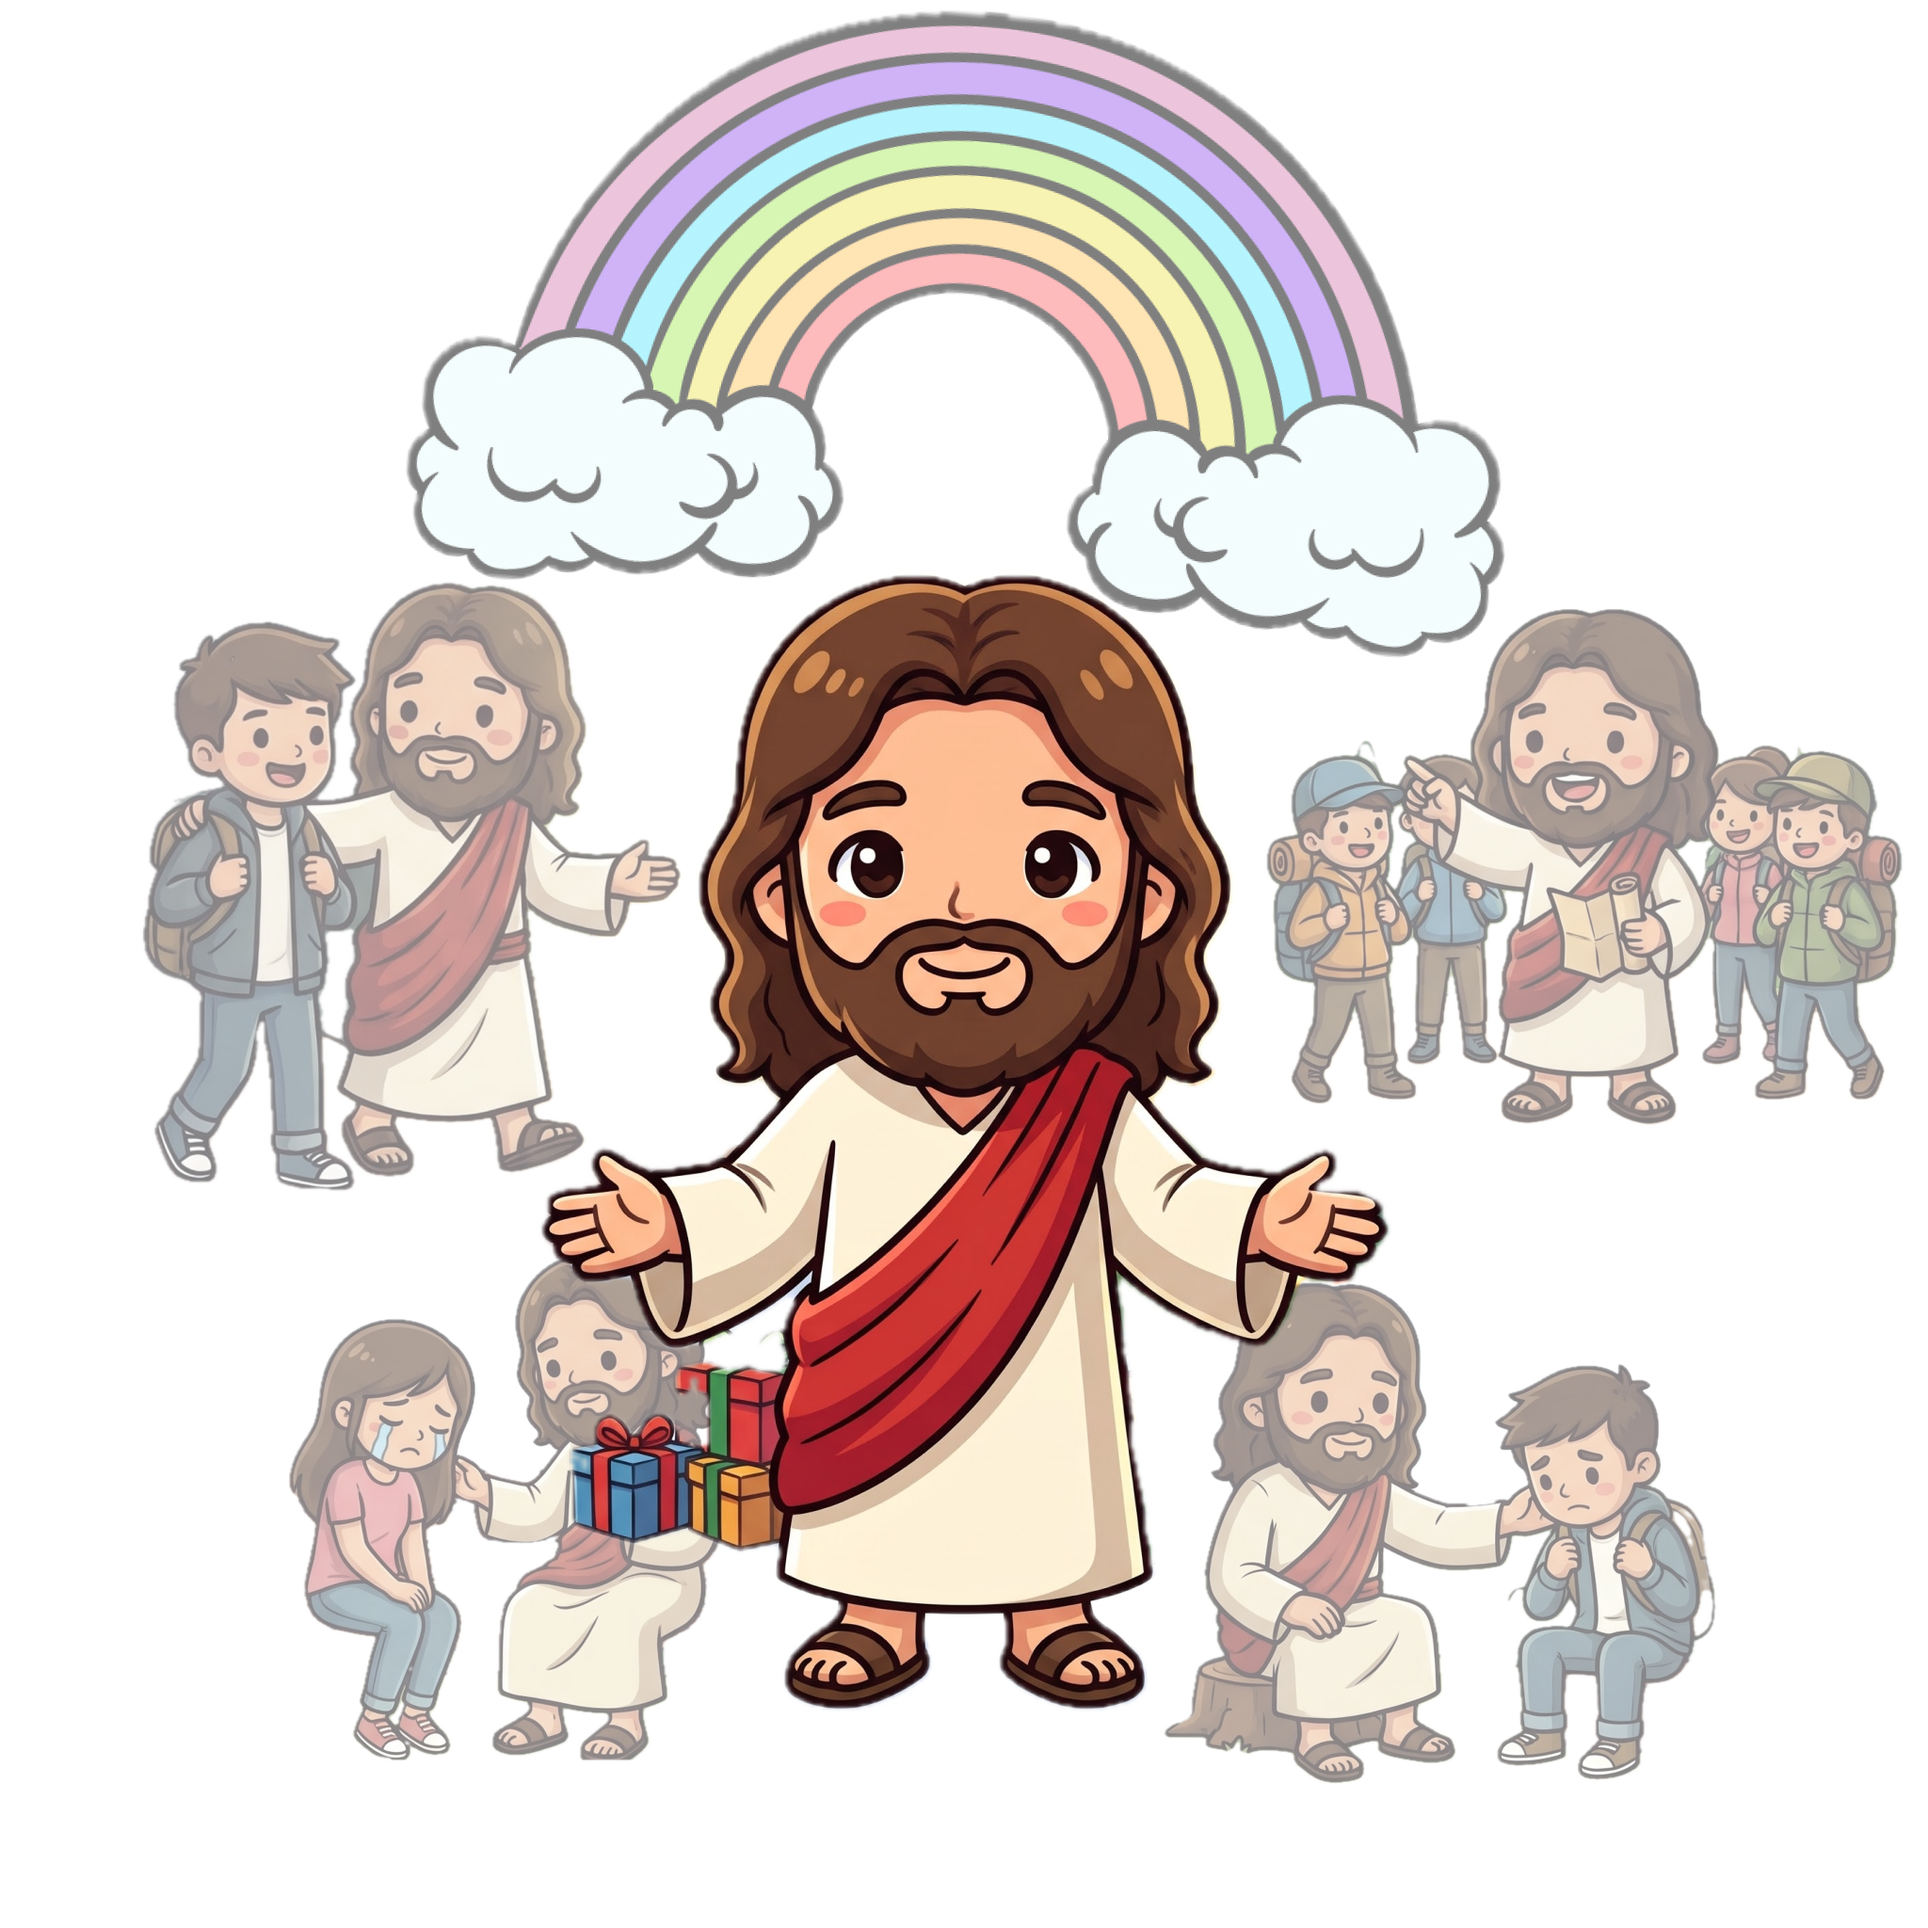
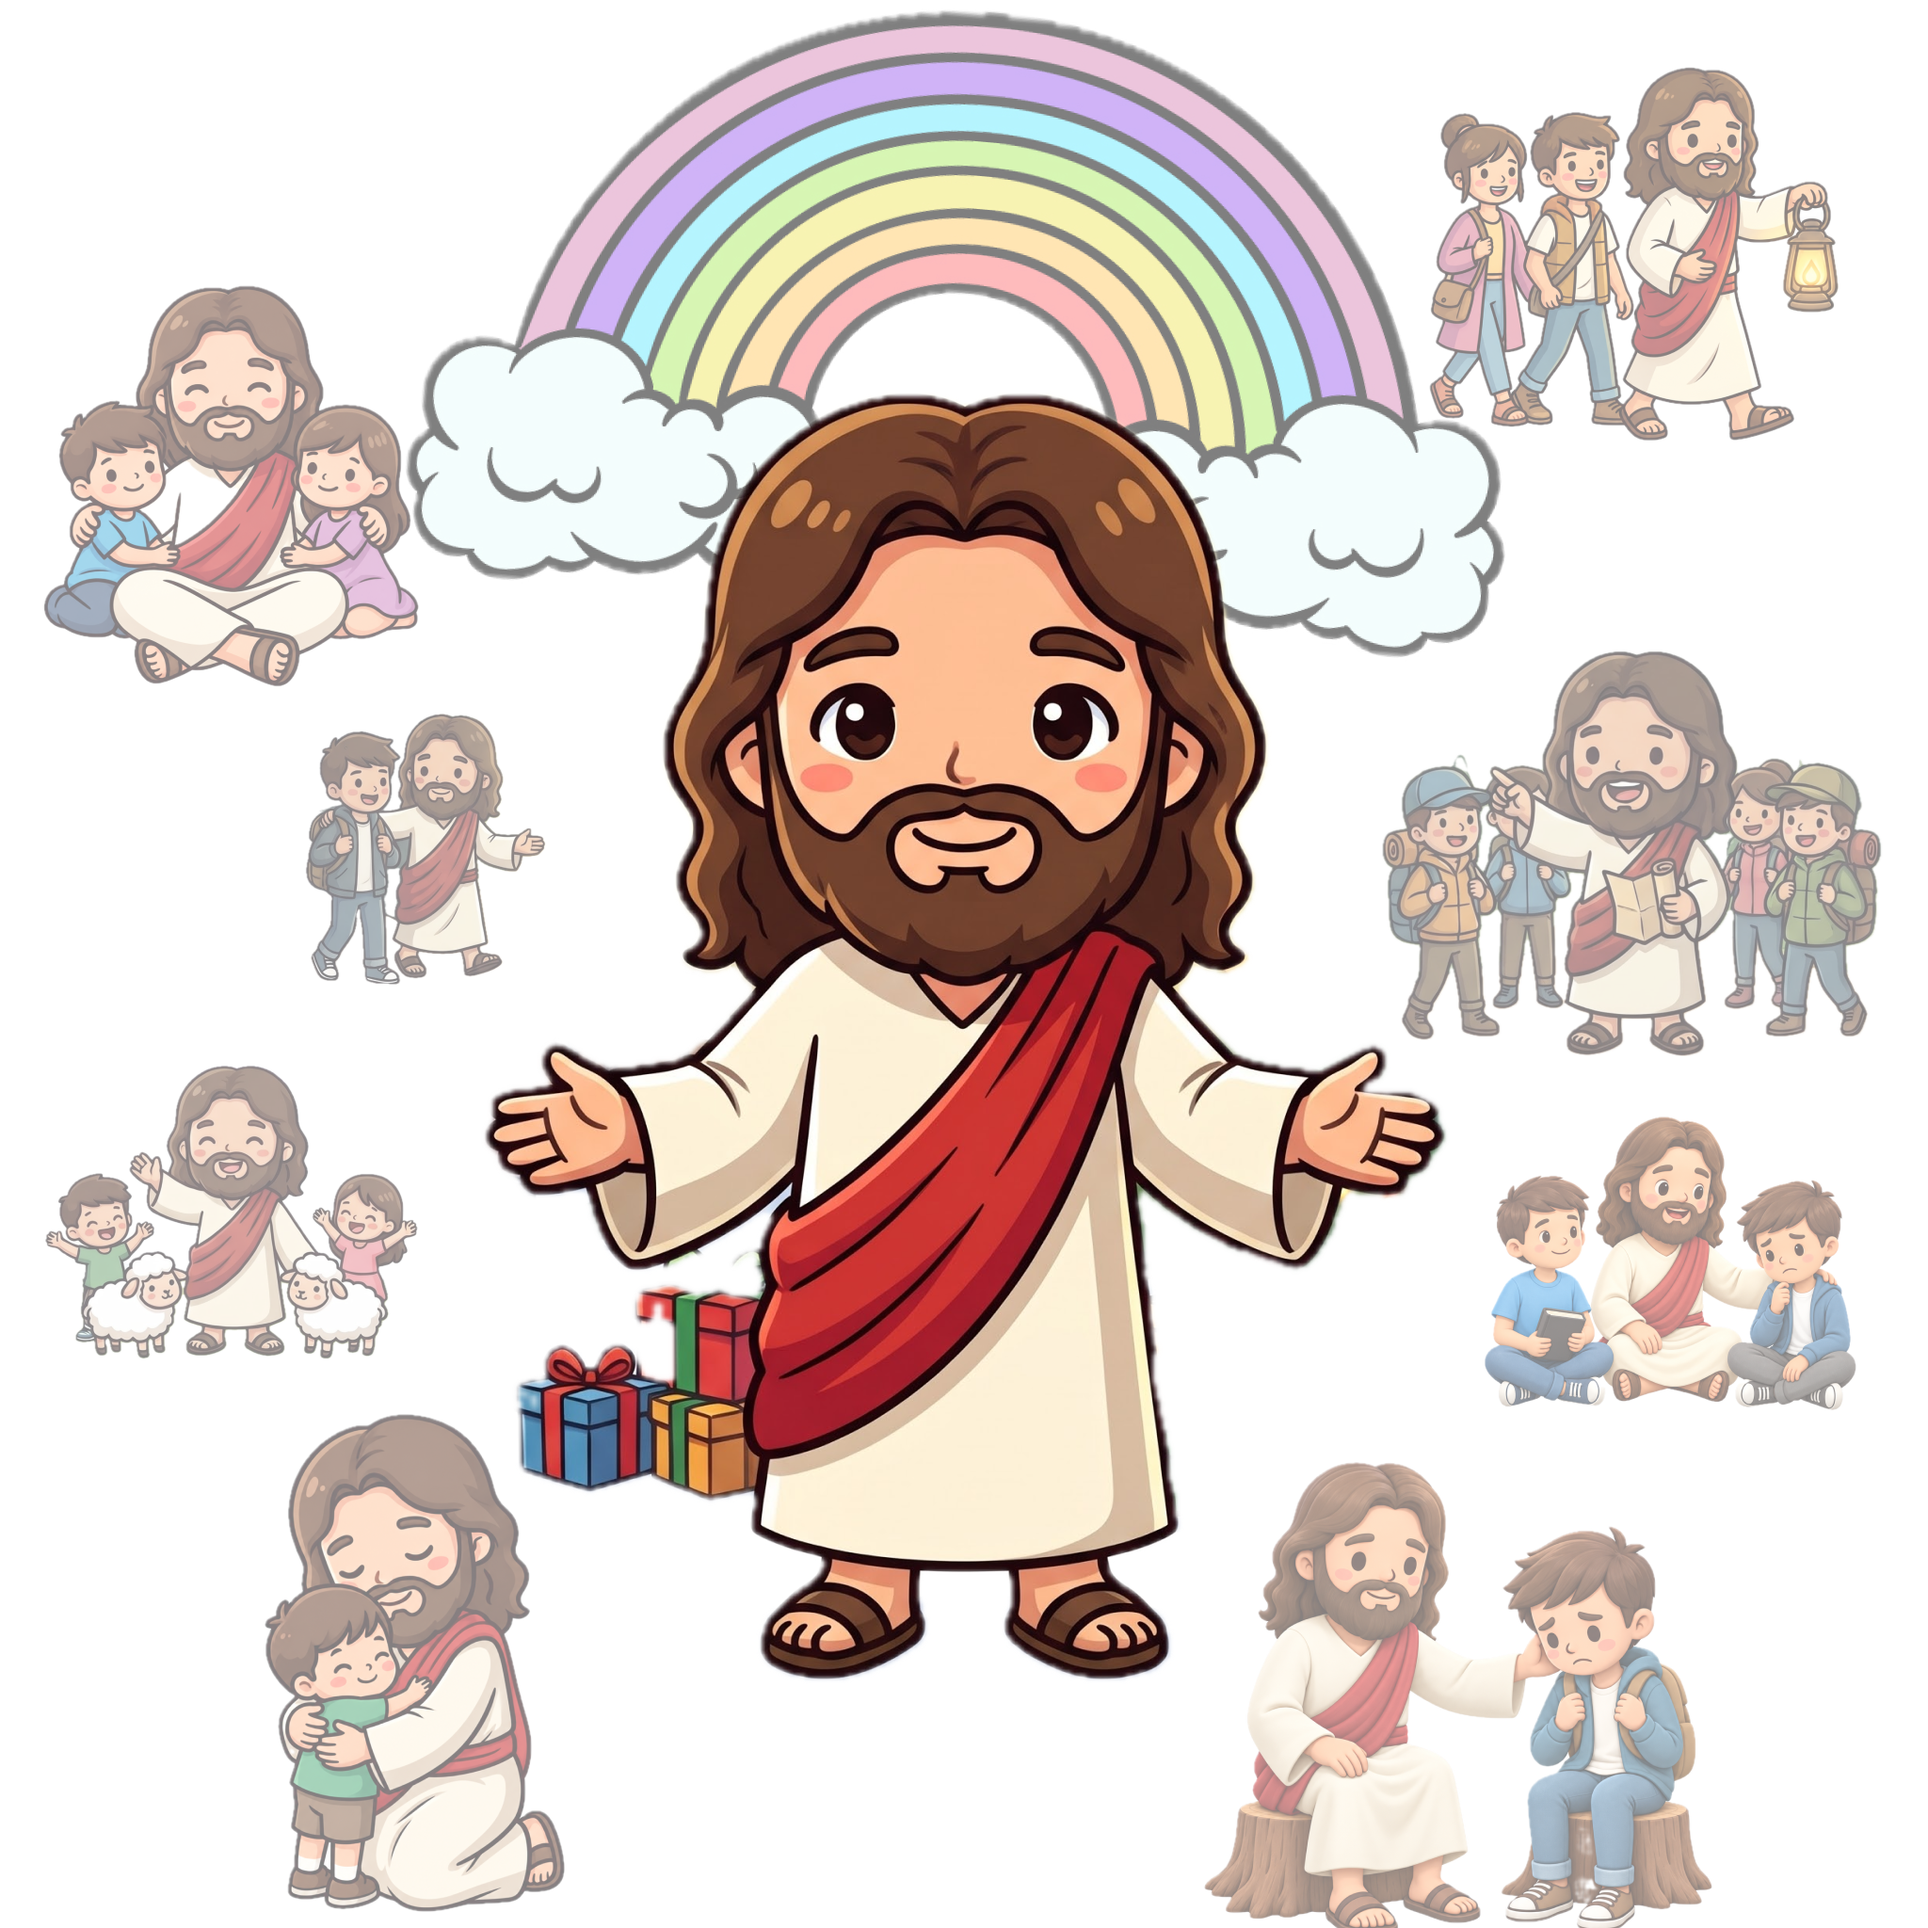
position v12 new  particle

diff --git a/trigger.html b/trigger.html
@@ -133,19 +133,18 @@
             wood: { img: 'assets/wood.png' }      // <- ganti nama file
         };
 
-        // Setting partikel (dipakai SEMUA mode). Satuan: lebar kartu = 1.
+        // Setting partikel (dipakai SEMUA mode). Semua angka RELATIF KE LAYAR HP, jadi pasti memenuhi layar.
         const PARTICLE = {
             count: 120,             // jumlah butiran (turunkan ke 80 kalau HP berat, naikkan kalau mau lebih ramai)
-            sizeMin: 0.07,          // butiran paling kecil
-            sizeMax: 0.35,          // butiran paling besar
-            sizeBias: 1.5,          // 1 = rata, makin besar = makin banyak yang kecil, sedikit yang besar
-            area: [2.4, 2.8, 1.2],  // [lebar, tinggi, kedalaman] area sebar: besarkan = makin menyebar tapi makin jarang
-            centerY: 0.3,           // geser area ke atas (+) / bawah (-) dari pusat kartu
-            speedMin: 0.05,         // kecepatan jatuh paling lambat
-            speedMax: 0.14,         // kecepatan jatuh paling cepat (butiran besar cenderung lebih cepat)
-            flutter: 0.15,          // goyangan kiri-kanan
+            sizeMin: 0.015,         // butiran paling kecil (0.015 = 1.5% tinggi layar)
+            sizeMax: 0.09,          // butiran paling besar
+            sizeBias: 1.6,          // 1 = rata, makin besar = makin banyak yang kecil, sedikit yang besar
+            speedMin: 0.04,         // kecepatan jatuh paling lambat (tinggi layar per detik)
+            speedMax: 0.13,         // kecepatan jatuh paling cepat (butiran besar cenderung lebih cepat)
+            flutter: 0.03,          // goyangan kiri-kanan (lebar layar)
             spin: 0.6,              // kecepatan berputar (0 = tidak berputar)
-            fade: 0.2,              // bagian atas/bawah area untuk fade in/out (0-0.5)
+            fade: 0.12,             // bagian atas/bawah layar untuk fade in/out (0-0.5)
+            margin: 0.1,            // butiran mulai sedikit di atas layar dan hilang sedikit di bawah layar
             opacityMin: 0.6,        // transparansi terendah
             opacityMax: 1           // transparansi tertinggi
         };
@@ -215,68 +214,69 @@
             });
         }
 
+        // Partikel dipasang di KAMERA (overlay layar penuh), muncul hanya saat kartu terdeteksi.
         AFRAME.registerComponent('fall-fx', {
             schema: { mode: { default: 'snow' } },
             init() {
-                const T = AFRAME.THREE;
                 if (!FX_MODES[this.data.mode]) return;
-                this.inv = new T.Quaternion(); this.tmp = new T.Vector3();
+                this.cam = this.el.sceneEl.camera;
                 loadTex(this.data.mode).then(tex => {
-                    const P = PARTICLE, A = P.area;
-                    const img = tex.image, aspect = (img && img.width && img.height) ? img.width / img.height : 1;
-                    const baseMat = new T.SpriteMaterial({ map: tex, transparent: true, depthWrite: false });
+                    if (this.removed || !this.cam) return;
+                    const T = AFRAME.THREE, P = PARTICLE;
+                    const img = tex.image;
+                    this.aspect = (img && img.width && img.height) ? img.width / img.height : 1;
+                    const baseMat = new T.SpriteMaterial({ map: tex, transparent: true, depthWrite: false, depthTest: false });
                     const group = new T.Group(), flakes = [];
                     const rnd = (a, b) => a + Math.random() * (b - a);
-
                     for (let i = 0; i < P.count; i++) {
-                        // r kecil = butiran kecil; pow bikin lebih banyak yang kecil, sedikit yang besar
-                        const r = Math.pow(Math.random(), P.sizeBias);
-                        const s = P.sizeMin + (P.sizeMax - P.sizeMin) * r;
-                        const mat = baseMat.clone();                    // material sendiri agar bisa fade per butiran
-                        const sp = new T.Sprite(mat);
-                        sp.scale.set(s * aspect, s, 1);
+                        const r = Math.pow(Math.random(), P.sizeBias);   // r kecil = butiran kecil
+                        const mat = baseMat.clone();
                         mat.rotation = Math.random() * 6.283;
+                        const sp = new T.Sprite(mat);
+                        sp.renderOrder = 999; sp.frustumCulled = false;
                         flakes.push({
                             sp, mat,
-                            bx: rnd(-A[0] / 2, A[0] / 2),
-                            y: P.centerY + rnd(-A[1] / 2, A[1] / 2),    // tersebar merata di tinggi area sejak awal
-                            bz: rnd(-A[2] * 0.3, A[2] * 0.7),
+                            u: Math.random(),                              // posisi kiri-kanan layar (0-1)
+                            y: rnd(-P.margin, 1 + P.margin),               // posisi tinggi layar (1 = atas), tersebar sejak awal
+                            s: P.sizeMin + (P.sizeMax - P.sizeMin) * r,    // ukuran (fraksi tinggi layar)
                             v: P.speedMin + (P.speedMax - P.speedMin) * (0.3 * Math.random() + 0.7 * r),
                             ph: Math.random() * 6.283, f: rnd(0.5, 1.2),
-                            sw: 0.5 + r,                                // butiran besar goyang lebih lebar
+                            sw: 0.5 + r,
                             spin: (Math.random() - 0.5) * 2 * P.spin,
                             op: rnd(P.opacityMin, P.opacityMax)
                         });
                         group.add(sp);
                     }
-                    this.flakes = flakes;
-                    this.el.setObject3D('fall', group);
+                    this.flakes = flakes; this.group = group;
+                    group.visible = false;
+                    this.cam.add(group);
                 });
+            },
+            remove() {
+                this.removed = true;
+                if (this.group && this.cam) this.cam.remove(this.group);
             },
             tick(t, dt) {
                 if (!this.flakes) return;
+                const par = this.el.object3D.parent;
+                this.group.visible = par.visible;
+                if (!par.visible) return;
+                const d = par.position.length();               // jarak kartu dari kamera
+                const e = this.cam.projectionMatrix.elements;
+                if (!(d > 0) || !e[0] || !e[5]) return;
+                const hw = Math.abs(d / e[0]), hh = Math.abs(d / e[5]);   // setengah lebar/tinggi layar di jarak itu
                 dt = Math.min(dt, 50) / 1000;
-                const P = PARTICLE, A = P.area, ts = t / 1000, par = this.el.object3D.parent;
-                const top = P.centerY + A[1] / 2, bottom = P.centerY - A[1] / 2, H = A[1];
-                this.inv.copy(par.quaternion).invert();     // putar balik arah kartu -> arah layar
-                const sc = par.scale.x || 1;
+                const P = PARTICLE, m = P.margin, range = 1 + 2 * m, ts = t / 1000;
                 for (const f of this.flakes) {
-                    const a = ts * f.f + f.ph;
                     f.y -= f.v * dt;
-                    if (f.y < bottom) {                      // keluar di bawah -> muncul lagi dari atas, posisi acak
-                        f.y = top;
-                        f.bx = (Math.random() - .5) * A[0];
-                        f.bz = -A[2] * 0.3 + Math.random() * A[2];
-                    }
-                    // fade in di atas, fade out di bawah
-                    const u = (f.y - bottom) / H;
-                    const edge = Math.min(1, u / P.fade, (1 - u) / P.fade);
-                    f.mat.opacity = f.op * Math.max(0, edge);
+                    if (f.y < -m) { f.y = 1 + m; f.u = Math.random(); }
+                    const w = (f.y + m) / range;
+                    f.mat.opacity = f.op * Math.max(0, Math.min(1, w / P.fade, (1 - w) / P.fade));
                     f.mat.rotation += f.spin * dt;
-                    const fl = P.flutter * f.sw;
-                    this.tmp.set(f.bx + Math.sin(a) * fl, f.y, f.bz + Math.sin(a * 2) * fl * 0.5)
-                        .applyQuaternion(this.inv).divideScalar(sc);
-                    f.sp.position.copy(this.tmp);
+                    const u = f.u + Math.sin(ts * f.f + f.ph) * P.flutter * f.sw;
+                    f.sp.position.set((u - 0.5) * 2 * hw, (f.y - 0.5) * 2 * hh, -d);
+                    const h = f.s * 2 * hh;
+                    f.sp.scale.set(h * this.aspect, h, 1);
                 }
             }
         });

diff --git a/index.html b/index.html
@@ -177,7 +177,7 @@
 
 <body>
     <div class="stage">
-        <div class="title">Merry Christmas 11</div>
+        <div class="title">Merry Christmas 12</div>
         <div class="char"><img src="assets/char.png" alt=""></div>
         <div>
             <button class="reveal" id="ball" aria-label="Reveal"><img src="assets/box.png" alt=""></button>
